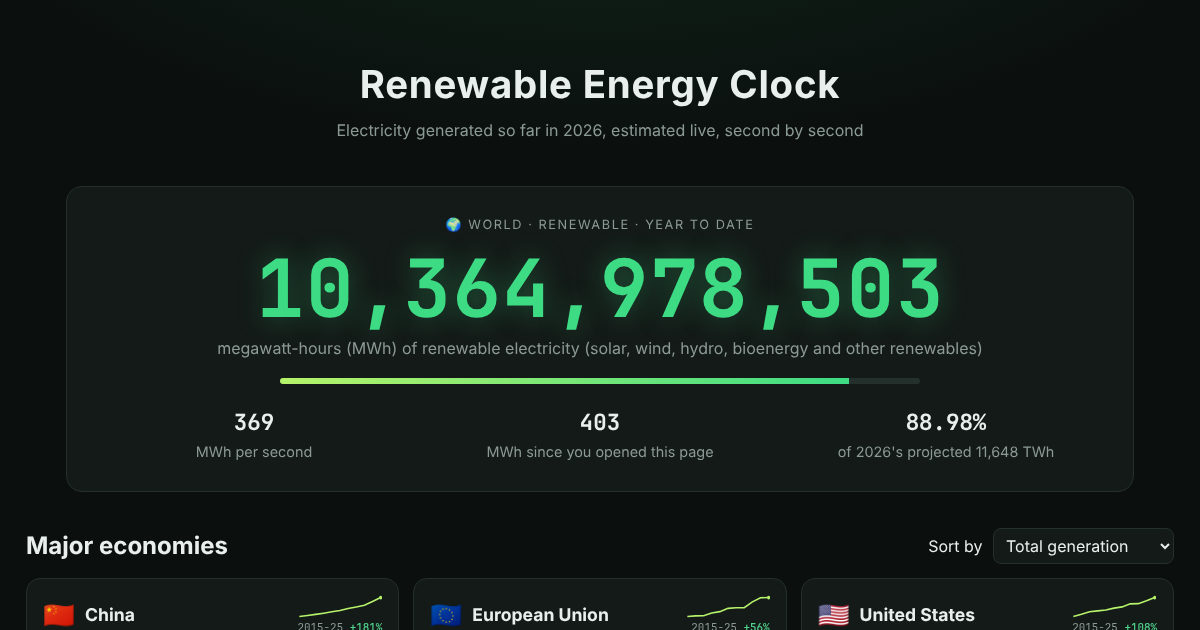
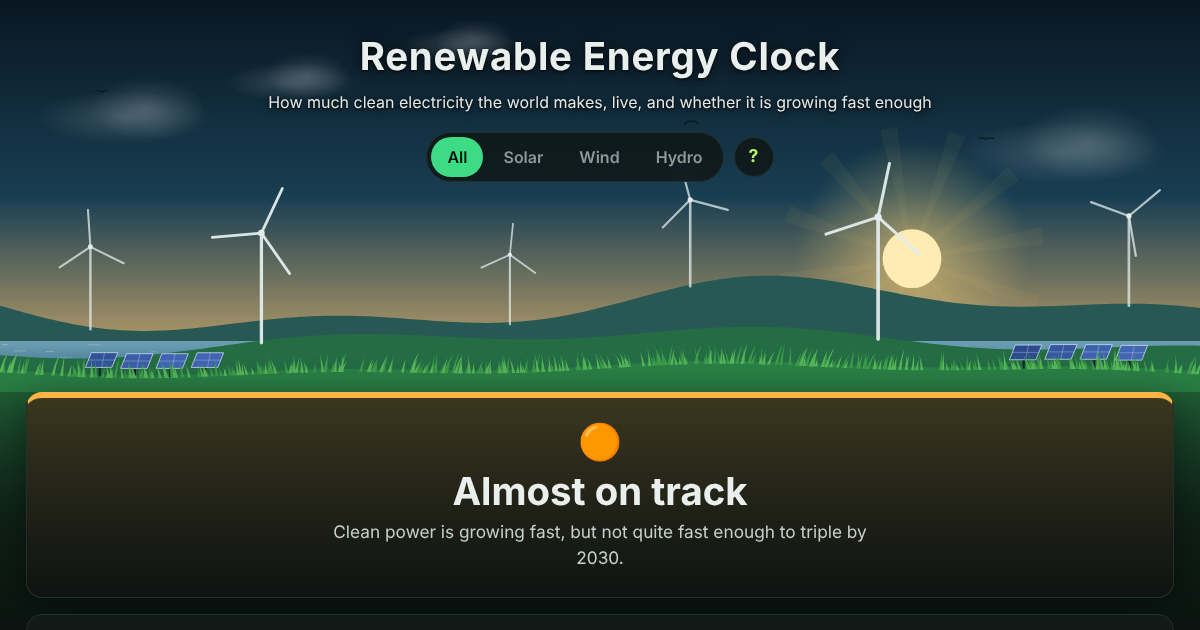
A living scene behind the header; pin clock-core 1.4.0 (commit ec9413e)
The top of the page now shows what the clock is about before a word is read,
and fades into the dark page as you scroll. Text keeps a dark backing so it
stays easy to read on laptops and phones; reduce motion gets a still frame.
The smoke test checks the picture painted. Link preview image regenerated.

Claude-Session: https://claude.ai/code/session_01KMf4v8suBxyLEQeq7bKUrM

diff --git a/js/scene.js b/js/scene.js
@@ -1,0 +1,205 @@
+// @ts-check
+/**
+ * Renewables Clock: the picture behind the top of the page. A warm sun over green hills, a lake, wind turbines
+ * turning, solar panels catching the light and grass swaying in the breeze. The view on show gets a little more
+ * attention: a brighter sun for solar, faster turbines for wind, a livelier lake for hydro. Drawn with a 2D canvas;
+ * clock-core's startScene runs it (see app.js).
+ */
+import { seeded } from "clock-core";
+
+/** @typedef {[number, number, number]} RGB */
+/** @param {RGB} c @param {number} [a] */
+const rgba = (c, a = 1) => `rgba(${c.join(",")},${a})`;
+
+const SKY_TOP = /** @type {RGB} */ ([9, 22, 34]), SKY_MID = /** @type {RGB} */ ([24, 62, 82]), SKY_LOW = /** @type {RGB} */ ([226, 182, 110]);
+const SUN = /** @type {RGB} */ ([255, 214, 120]);
+const HILLS = /** @type {RGB[]} */ ([[40, 88, 84], [36, 108, 68], [42, 128, 70]]);
+const GRASS = /** @type {RGB[]} */ ([[60, 156, 74], [86, 182, 88]]);
+const TURBINE = /** @type {RGB} */ ([226, 236, 236]);
+
+/** A soft round sprite, stamped for clouds and glows. */
+function softDot() {
+  const c = document.createElement("canvas");
+  c.width = c.height = 64;
+  const g = /** @type {CanvasRenderingContext2D} */ (c.getContext("2d"));
+  const r = g.createRadialGradient(32, 32, 0, 32, 32, 32);
+  r.addColorStop(0, "rgba(255,255,255,1)"); r.addColorStop(0.6, "rgba(255,255,255,.4)"); r.addColorStop(1, "rgba(255,255,255,0)");
+  g.fillStyle = r; g.fillRect(0, 0, 64, 64);
+  return c;
+}
+
+/**
+ * Build the renewables scene.
+ * @param {() => string | undefined} source  the view on show ("all", "solar", "wind" or "hydro"), read every frame
+ * @returns {import("clock-core").Scene}
+ */
+export function renewablesScene(source) {
+  const dot = softDot();
+  /** Hill heights every 4 px, far to near. @type {Float32Array[]} */ let hills = [];
+  const STEP = 4;
+  /** @type {{ x: number, y: number, size: number, speed: number, phase: number, layer: number }[]} */ let turbines = [];
+  /** @type {{ x: number, y: number, n: number, size: number }[]} */ let panels = [];
+  /** @type {{ x: number, h: number, lean: number, phase: number, shade: number }[]} */ let grass = [];
+  /** @type {{ y: number, speed: number, off: number, size: number }[]} */ let clouds = [];
+  // How much each view is emphasised, eased towards 1 for the view on show
+  const focus = { solar: 0, wind: 0, hydro: 0 };
+  let spin = 0, sway = 0;
+
+  /** Height of hill layer i at x. @param {number} i @param {number} x */
+  const hillY = (i, x) => hills[i][Math.max(0, Math.min(hills[i].length - 1, Math.round(x / STEP)))];
+
+  return {
+    layout(f) {
+      const { w, ground: G } = f;
+      const rnd = seeded(11);
+      const n = Math.ceil(w / STEP) + 2;
+      // Three layers of rolling hills; nearer ones are lower on screen and greener
+      hills = [0.3, 0.17, 0.07].map((top, i) => {
+        const a = new Float32Array(n), p1 = rnd() * 6, p2 = rnd() * 6, f1 = 0.004 + rnd() * 0.003, f2 = 0.011 + rnd() * 0.006;
+        for (let k = 0; k < n; k++) {
+          const x = k * STEP, wave = (Math.sin(x * f1 + p1) * 0.65 + Math.sin(x * f2 + p2) * 0.35 + 1) / 2;
+          a[k] = G - G * top * (0.45 + 0.55 * wave) - (i === 2 ? 4 : 0);
+        }
+        return a;
+      });
+      // Wind turbines on the far and middle hills
+      turbines = [];
+      const count = Math.max(3, Math.round(w / 200));
+      for (let i = 0; i < count; i++) {
+        const layer = i % 3 === 1 ? 1 : 0, x = ((i + 0.2 + rnd() * 0.6) / count) * w;
+        turbines.push({ x, y: hillY(layer, x) + 2, size: G * (layer ? 0.3 : 0.2) * (0.85 + rnd() * 0.3), speed: 0.7 + rnd() * 0.5, phase: rnd() * 6, layer });
+      }
+      // Solar panels on the near hill, left and right of the middle (the title sits above the middle)
+      panels = [0.13, 0.9].map((p) => ({ x: w * p, y: hillY(2, w * p), n: w < 600 ? 2 : 4, size: Math.max(20, G * 0.075) }));
+      // Grass along the top of the near hill
+      grass = Array.from({ length: Math.round(w / 3) }, () => ({
+        x: rnd() * w, h: (8 + rnd() * 14) * Math.max(0.8, G / 400), lean: (rnd() - 0.5) * 0.5, phase: rnd() * 6, shade: rnd() < 0.5 ? 0 : 1,
+      }));
+      clouds = Array.from({ length: 4 }, (_, i) => ({ y: G * (0.12 + i * 0.09), speed: 4 + rnd() * 5, off: rnd() * w, size: 60 + rnd() * 70 }));
+    },
+
+    draw(f) {
+      const { ctx, w, h, ground: G, t, dt } = f;
+      const view = source() ?? "all";
+      for (const k of /** @type {const} */ (["solar", "wind", "hydro"])) {
+        const target = view === k ? 1 : 0;
+        focus[k] = dt ? focus[k] + (target - focus[k]) * Math.min(1, dt * 2) : target;
+      }
+      spin += dt * (1 + focus.wind * 1.4);
+      sway += dt * (1 + focus.wind * 0.8);
+
+      // Sky, dark at the top for the title, warm near the horizon
+      const sky = ctx.createLinearGradient(0, 0, 0, G);
+      sky.addColorStop(0, rgba(SKY_TOP)); sky.addColorStop(0.5, rgba(SKY_MID)); sky.addColorStop(1, rgba(SKY_LOW));
+      ctx.fillStyle = sky; ctx.fillRect(0, 0, w, G + 1);
+
+      // The sun, with slowly turning rays (bigger and brighter in the solar view)
+      // Low in the sky, beside the hills and below the header text
+      const sx = w * (w < 600 ? 0.8 : 0.76), sy = G * 0.66, sr = Math.min(w, G) * 0.075 * (1 + focus.solar * 0.25);
+      ctx.save(); ctx.translate(sx, sy); ctx.rotate(t * 0.03);
+      ctx.fillStyle = rgba(SUN, 0.05 + focus.solar * 0.05);
+      for (let i = 0; i < 12; i++) {
+        ctx.rotate(Math.PI / 6);
+        ctx.beginPath(); ctx.moveTo(0, 0); ctx.lineTo(sr * 4.5, -sr * 0.3); ctx.lineTo(sr * 4.5, sr * 0.3); ctx.fill();
+      }
+      ctx.restore();
+      const glow = ctx.createRadialGradient(sx, sy, sr * 0.5, sx, sy, sr * 4);
+      glow.addColorStop(0, rgba(SUN, 0.5 + focus.solar * 0.2)); glow.addColorStop(1, rgba(SUN, 0));
+      ctx.fillStyle = glow; ctx.fillRect(sx - sr * 4, sy - sr * 4, sr * 8, sr * 8);
+      ctx.fillStyle = rgba([255, 236, 180]); ctx.beginPath(); ctx.arc(sx, sy, sr, 0, Math.PI * 2); ctx.fill();
+
+      // Soft clouds drifting by
+      ctx.globalAlpha = 0.16;
+      for (const c of clouds) {
+        const x = ((c.off + t * c.speed * (1 + focus.wind)) % (w + 300)) - 150;
+        ctx.drawImage(dot, x - c.size, c.y - c.size * 0.3, c.size * 2, c.size * 0.6);
+        ctx.drawImage(dot, x - c.size * 0.4, c.y - c.size * 0.45, c.size * 1.3, c.size * 0.7);
+      }
+      ctx.globalAlpha = 1;
+
+      // A few birds
+      ctx.strokeStyle = "rgba(10,20,24,.7)"; ctx.lineWidth = 1.4;
+      for (let i = 0; i < 4; i++) {
+        const x = ((t * (14 + i * 3) + i * 260) % (w + 120)) - 60, y = G * (0.22 + i * 0.05) + Math.sin(t * 0.7 + i) * 6;
+        const flap = Math.sin(t * 6 + i * 2) * 3, s = 5 + i;
+        ctx.beginPath(); ctx.moveTo(x - s, y - flap); ctx.quadraticCurveTo(x - s / 2, y - 2, x, y); ctx.quadraticCurveTo(x + s / 2, y - 2, x + s, y - flap); ctx.stroke();
+      }
+
+      /** Fill hill layer i down to the horizon. @param {number} i */
+      const hill = (i) => {
+        ctx.fillStyle = rgba(HILLS[i]);
+        ctx.beginPath(); ctx.moveTo(0, h);
+        for (let k = 0; k < hills[i].length; k++) ctx.lineTo(k * STEP, hills[i][k]);
+        ctx.lineTo(w, h); ctx.fill();
+      };
+      /** @param {number} layer */
+      const drawTurbines = (layer) => {
+        for (const tb of turbines) {
+          if (tb.layer !== layer) continue;
+          const top = tb.y - tb.size, blade = tb.size * 0.45, a0 = spin * tb.speed + tb.phase;
+          ctx.strokeStyle = rgba(TURBINE, layer ? 0.95 : 0.75); ctx.lineCap = "round";
+          ctx.lineWidth = Math.max(1.5, tb.size * 0.03);
+          ctx.beginPath(); ctx.moveTo(tb.x, tb.y); ctx.lineTo(tb.x, top); ctx.stroke();
+          ctx.lineWidth = Math.max(1.2, tb.size * 0.025);
+          ctx.beginPath();
+          for (let b = 0; b < 3; b++) {
+            const a = a0 + (b * Math.PI * 2) / 3;
+            ctx.moveTo(tb.x, top); ctx.lineTo(tb.x + Math.cos(a) * blade, top + Math.sin(a) * blade);
+          }
+          ctx.stroke();
+          ctx.fillStyle = rgba(TURBINE); ctx.beginPath(); ctx.arc(tb.x, top, Math.max(1.5, tb.size * 0.03), 0, Math.PI * 2); ctx.fill();
+        }
+      };
+
+      hill(0);
+      drawTurbines(0);
+
+      // A lake in the valleys, shimmering (livelier in the hydro view)
+      const lakeTop = G - G * 0.13;
+      const lake = ctx.createLinearGradient(0, lakeTop, 0, G);
+      lake.addColorStop(0, "rgb(110,160,180)"); lake.addColorStop(1, "rgb(36,88,124)");
+      ctx.fillStyle = lake; ctx.fillRect(0, lakeTop, w, G - lakeTop);
+      ctx.fillStyle = `rgba(255,240,200,${0.25 + focus.hydro * 0.35})`;
+      for (let i = 0; i < w / 14; i++) {
+        const y = lakeTop + 3 + ((i * 7) % Math.max(1, G - lakeTop - 4)), x = (i * 53 + Math.sin(t * (0.8 + focus.hydro) + i) * 10) % w;
+        const len = 6 + 8 * (0.5 + 0.5 * Math.sin(t * 2 + i * 1.7));
+        ctx.fillRect(x, y, len, 1);
+      }
+
+      hill(1);
+      drawTurbines(1);
+      hill(2);
+
+      // Solar panels catching the light
+      for (const p of panels) {
+        for (let i = 0; i < p.n; i++) {
+          const x = p.x + (i - p.n / 2) * p.size * 1.2, y = hillY(2, x) + 2, s = p.size;
+          ctx.fillStyle = "rgba(20,28,36,.9)"; ctx.fillRect(x + s * 0.45, y - s * 0.3, 2, s * 0.3);
+          const shine = 0.5 + 0.5 * Math.sin(t * 0.9 - i * 0.6 + p.x);
+          ctx.fillStyle = `rgb(${Math.round(30 + 60 * shine * (0.6 + focus.solar))},${Math.round(60 + 70 * shine * (0.6 + focus.solar))},${Math.round(120 + 60 * shine)})`;
+          ctx.beginPath(); ctx.moveTo(x, y - s * 0.3); ctx.lineTo(x + s * 0.2, y - s * 0.8); ctx.lineTo(x + s * 1.1, y - s * 0.8); ctx.lineTo(x + s * 0.9, y - s * 0.3); ctx.closePath(); ctx.fill();
+          ctx.strokeStyle = "rgba(220,235,245,.7)"; ctx.lineWidth = 1; ctx.stroke();
+          ctx.beginPath(); ctx.moveTo(x + s * 0.1, y - s * 0.55); ctx.lineTo(x + s, y - s * 0.55); ctx.moveTo(x + s * 0.55, y - s * 0.3); ctx.lineTo(x + s * 0.65, y - s * 0.8);
+          ctx.strokeStyle = "rgba(200,220,240,.35)"; ctx.stroke();
+        }
+      }
+
+      // Grass swaying in the breeze
+      for (let shade = 0; shade < 2; shade++) {
+        ctx.fillStyle = rgba(GRASS[shade]);
+        ctx.beginPath();
+        for (const g of grass) {
+          if (g.shade !== shade) continue;
+          const base = hillY(2, g.x) + 3, bend = (Math.sin(sway * 1.3 + g.x * 0.015 + g.phase * 0.3) * 0.6 + g.lean) * g.h * 0.6;
+          ctx.moveTo(g.x - 1.6, base); ctx.quadraticCurveTo(g.x + bend * 0.3, base - g.h * 0.6, g.x + bend, base - g.h); ctx.quadraticCurveTo(g.x + bend * 0.3 + 0.8, base - g.h * 0.5, g.x + 1.6, base);
+        }
+        ctx.fill();
+      }
+
+      // Green ground below the horizon, fading into the page
+      const field = ctx.createLinearGradient(0, G, 0, h);
+      field.addColorStop(0, "rgb(32,96,54)"); field.addColorStop(0.35, "rgb(18,46,30)"); field.addColorStop(1, "rgb(10,20,16)");
+      ctx.fillStyle = field; ctx.fillRect(0, G, w, h - G);
+    },
+  };
+}

diff --git a/scripts/smoke.js b/scripts/smoke.js
@@ -1,6 +1,6 @@
 // End-to-end smoke test: serves this repository locally, opens the page in headless Chromium at desktop
-// and phone width, and checks that real data loads, counters tick, verdicts show, nothing scrolls sideways
-// no em or en dashes reach the page, and no errors or warnings appear in the console.
+// and phone width, and checks that real data loads, counters tick, verdicts show, the header picture paints,
+// nothing scrolls sideways, no em or en dashes reach the page, and no errors or warnings appear in the console.
 // Settings come from the "smoke" field in package.json.
 //
 //   npm run smoke                        uses the pinned clock-core release from jsDelivr
@@ -75,6 +75,14 @@ for (const hash of ["", ...(cfg.hashes ?? [])]) {
     // The shared stylesheet really applied (a CSS syntax error fails silently): the answer banner has its colour stripe.
     const styled = await page.evaluate(() => { const a = document.getElementById("answer"); return !a || parseFloat(getComputedStyle(a).borderTopWidth) > 0; });
     if (!styled) failures.push(`${name}: clock-core.css did not apply (answer banner has no colour stripe)`);
+    // The picture behind the header painted (an error in the scene hides its canvas).
+    const painted = await page.evaluate(() => {
+      const c = document.querySelector("canvas.scene");
+      if (!(c instanceof HTMLCanvasElement)) return true;
+      const px = !c.hidden && c.width ? c.getContext("2d")?.getImageData(c.width >> 1, 4, 1, 1).data : null;
+      return !!px && px[3] > 0;
+    });
+    if (!painted) failures.push(`${name}: the header picture (canvas.scene) did not paint`);
     const scrollW = await page.evaluate(() => document.documentElement.scrollWidth);
     if (scrollW > Number(w)) failures.push(`${name}: page is ${scrollW}px wide (horizontal scroll)`);
     const text = await page.evaluate(() => document.title + "\n" + document.body.innerText);

diff --git a/js/app.js b/js/app.js
@@ -1,12 +1,13 @@
 // @ts-check
 /**
  * Renewables Clock: loads the data, renders the page and runs the live counters.
- * Calculations live in model.js (pure, tested); settings in config.js.
+ * Calculations live in model.js (pure, tested); settings in config.js; the picture behind the header in scene.js.
  */
 import * as C from "clock-core";
 import CFG from "./config.js";
 import { indexGeneration, indexCapacity, generationEntry, capacityModel } from "./model.js";
 import { allHeadline, sourceHeadline, goalStatus, shareStatus, trendBadge } from "./messages.js";
+import { renewablesScene } from "./scene.js";
 
 const { YEAR, fmt, pct, setText, escapeHtml } = C;
 const MWH_PER_TWH = 1e6;
@@ -281,6 +282,7 @@ function renderMix(v) {
 function applyLabels(key) {
   const src = CFG.sources[key];
   document.body.dataset.src = key;
+  scene.redraw();
   document.title = key === "all"
     ? "Live Renewable Energy Clock: World and Countries in Real Time"
     : `Live ${src.label} Power Clock: World and Countries in Real Time`;
@@ -334,6 +336,8 @@ document.querySelectorAll(".gas-switch button").forEach((b) => b.addEventListene
 }));
 window.addEventListener("hashchange", () => show(fromHash()));
 
+const scene = C.startScene(document.querySelector("canvas.scene"), renewablesScene(() => document.body.dataset.src),
+  { groundAt: document.querySelector("header.top") });
 C.wireHelp();
 C.fill("year", YEAR);
 C.fill("source", CFG.source);

diff --git a/index.html b/index.html
@@ -43,10 +43,10 @@
     ]
   }
   </script>
-  <link rel="stylesheet" href="https://cdn.jsdelivr.net/gh/ramialbatal/clock-core@ec72aeee0db58f067da1658b766a21a229a991f1/clock-core.css">
+  <link rel="stylesheet" href="https://cdn.jsdelivr.net/gh/ramialbatal/clock-core@ec9413e351bcc56a3583a3cb9060c0c75d97fdad/clock-core.css">
   <link rel="stylesheet" href="css/theme.css">
   <!-- clock-core is pinned to an exact commit; to upgrade, change it here, in the CSS link above and in package.json -->
-  <script type="importmap">{ "imports": { "clock-core": "https://cdn.jsdelivr.net/gh/ramialbatal/clock-core@ec72aeee0db58f067da1658b766a21a229a991f1/clock-core.js" } }</script>
+  <script type="importmap">{ "imports": { "clock-core": "https://cdn.jsdelivr.net/gh/ramialbatal/clock-core@ec9413e351bcc56a3583a3cb9060c0c75d97fdad/clock-core.js" } }</script>
   <!-- If the page code can't load (CDN down, very old browser), show the error box instead of a spinner forever -->
   <script>
     function clockLoadFailed() {
@@ -63,7 +63,8 @@
   <script nomodule>clockLoadFailed();</script>
   <script type="module" src="js/app.js" onerror="clockLoadFailed()"></script>
 </head>
-<body data-state="loading" data-src="all">
+<body class="has-scene" data-state="loading" data-src="all">
+  <canvas class="scene" aria-hidden="true"></canvas>
   <header class="top">
     <div class="wrap">
       <h1><span data-src-label>Renewable</span> Energy Clock</h1>

diff --git a/CLAUDE.md b/CLAUDE.md
@@ -5,7 +5,8 @@
   clock-core's `docs/` (especially `lessons-learned.md` and `adding-a-clock.md`) before changing anything.
 - Plain ES modules, no build step. Settings in `js/config.js`, pure calculations in `js/model.js` (add a test in
   `test/model.test.js` for every change), plain-language messages in `js/messages.js` (tested in
-  `test/messages.test.js`), page code in `js/app.js`.
+  `test/messages.test.js`), page code in `js/app.js`, the animated picture behind the header in `js/scene.js` (keep the
+  title readable over it; check screenshots at laptop and phone width).
 - Page design: answer first, in plain words with a colour (green, amber, red); one short sentence per point; every
   number, method or source behind "More" or "How we calculate this". No jargon in what a visitor sees first.
 - Never copy clock-core helpers into this repo; change clock-core, release it, then bump the pin in three places:

diff --git a/README.md b/README.md
@@ -41,7 +41,7 @@ npx playwright install chromium   # once, for the smoke test
 npm run smoke        # real browser, real data, desktop and phone
 ```
 
-Settings live in `js/config.js`, calculations in `js/model.js` (unit tested), page code in `js/app.js`. Shared helpers
+Settings live in `js/config.js`, calculations in `js/model.js` (unit tested), page code in `js/app.js`, the picture behind the header in `js/scene.js`. Shared helpers
 and styles come from [clock-core](https://github.com/ramialbatal/clock-core), pinned to an exact commit in `index.html` and `package.json`.
 How the clocks are built, lessons learned and rules for new code: [developer notes](https://github.com/ramialbatal/clock-core/tree/main/docs).
 

diff --git a/CONTRIBUTING.md b/CONTRIBUTING.md
@@ -33,6 +33,7 @@ The same checks run automatically on every pull request, and once a week to catc
 | `js/model.js` | Calculations as pure functions (no page, no network). Covered by `test/model.test.js`. |
 | `js/messages.js` | Every plain-language message (the answer at the top, traffic lights, badges): tone plus short words. Covered by `test/messages.test.js`. |
 | `js/app.js` | Loading data, building the page, the live ticker. |
+| `js/scene.js` | The animated picture behind the header (run by clock-core's `startScene`). |
 | `css/theme.css` | Colours and styles specific to this clock. |
 | `index.html` | Page text, method section, sources. |
 
